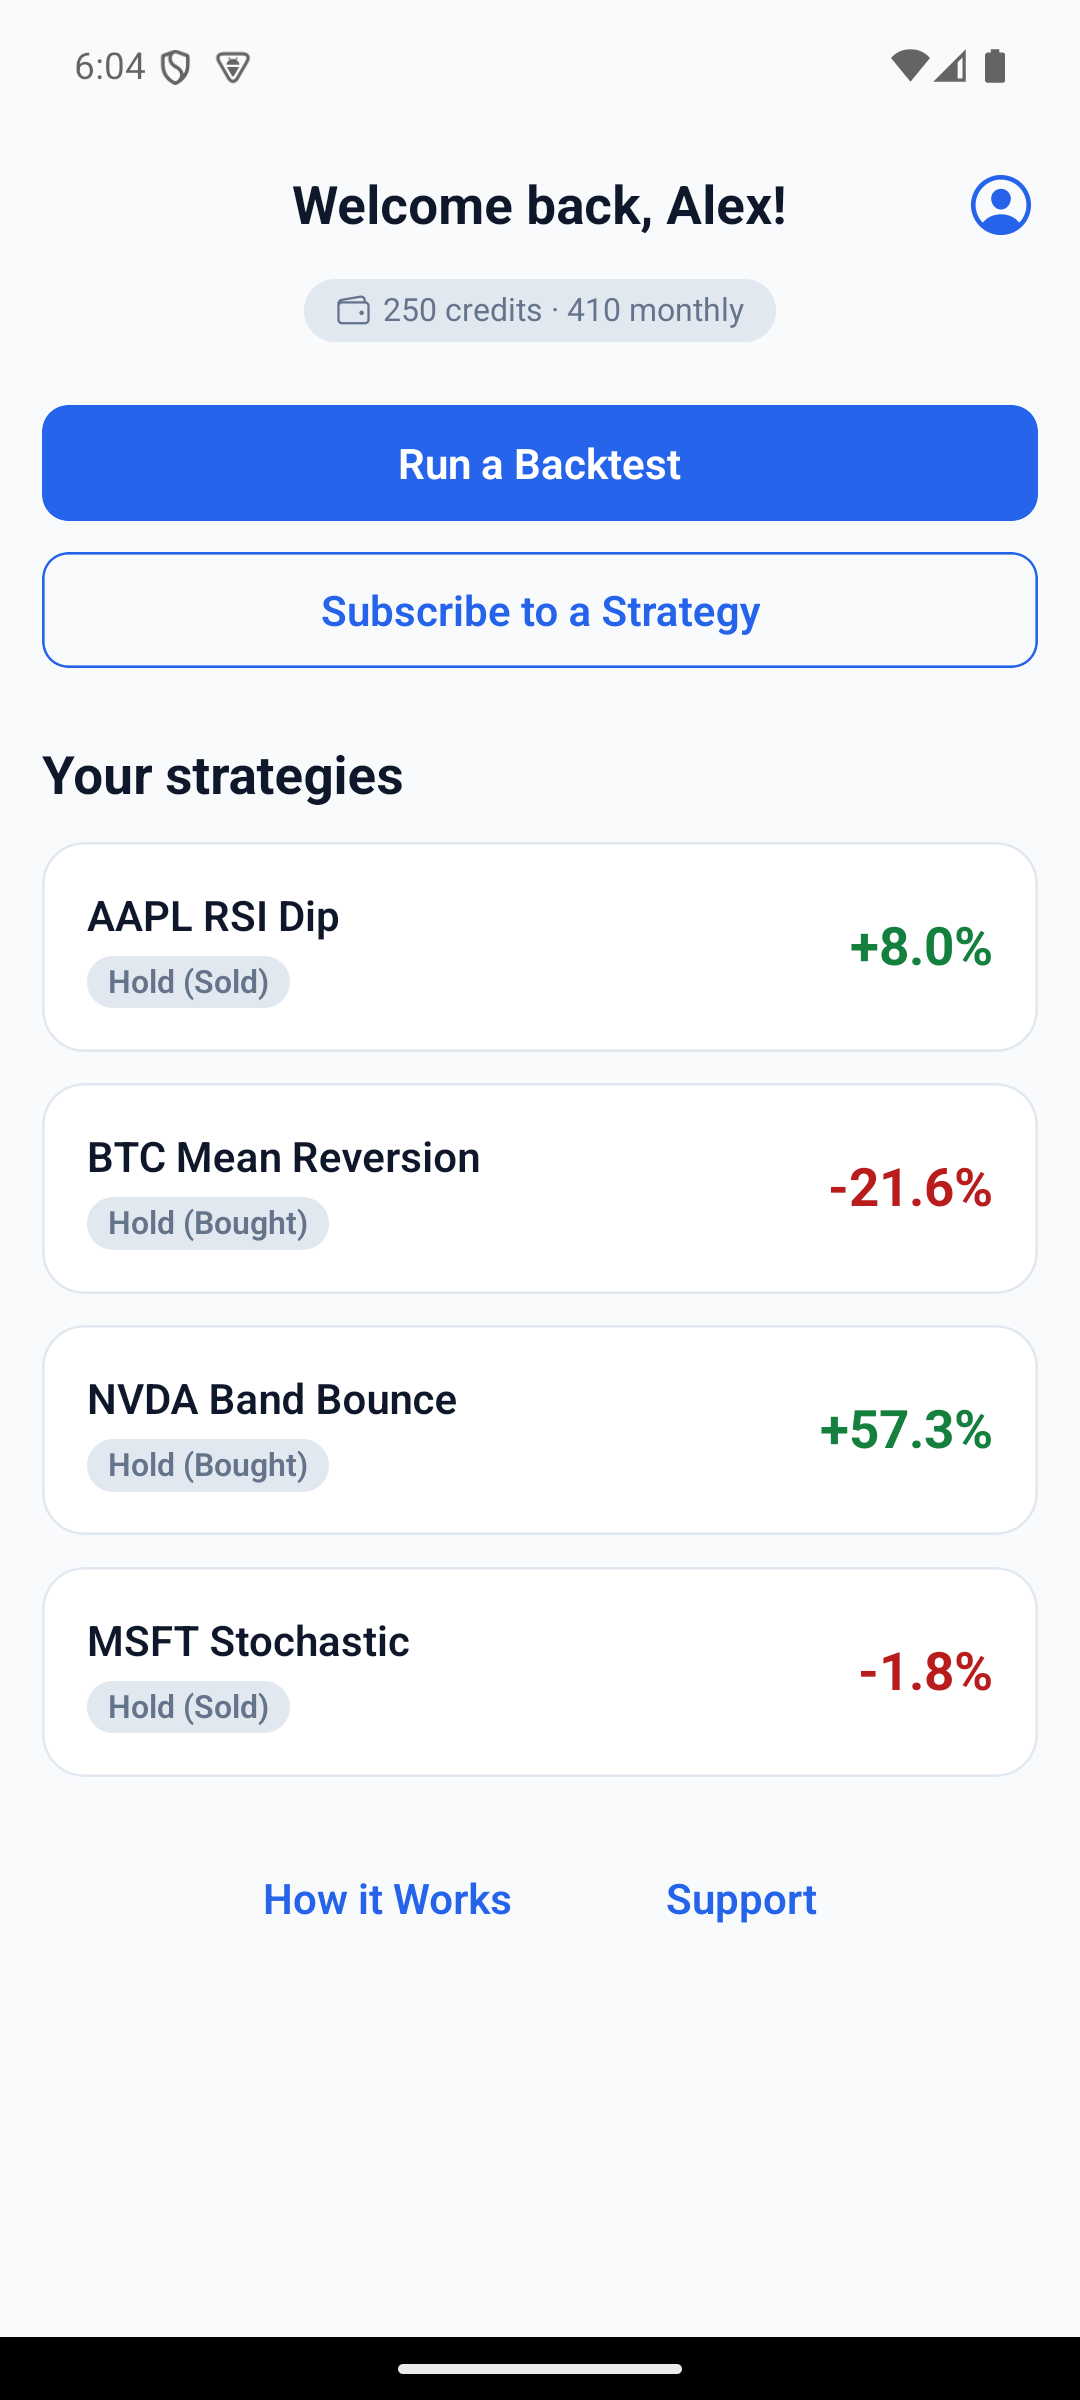
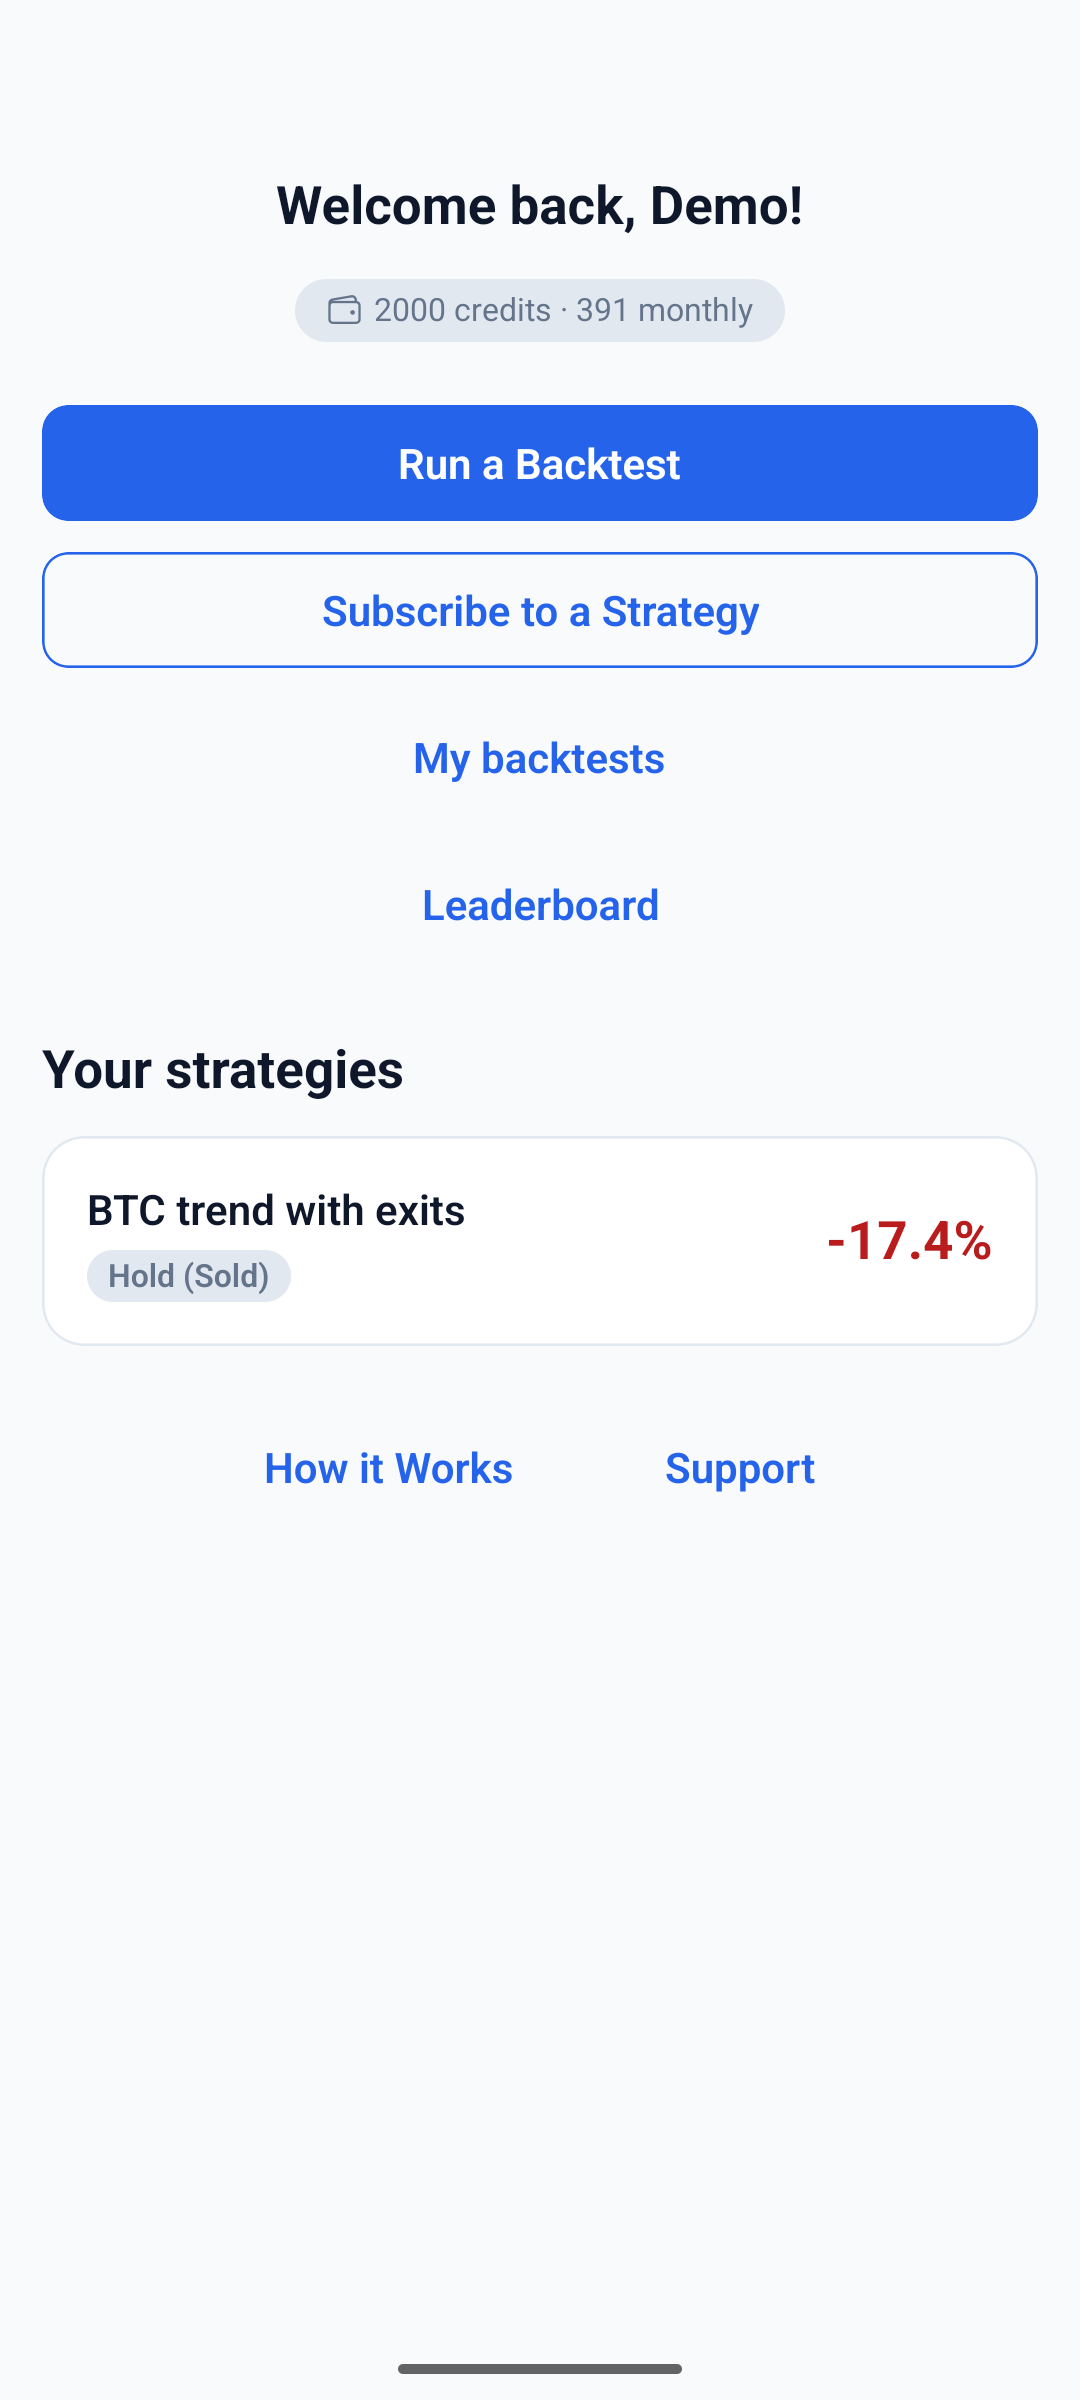
README and screenshots: the strategy curve; retake home and strategy-detail (#65)
Docs and visuals for bsav0016/AlgoTrackerBackend#84. home.png predated the My backtests link; strategy-detail.png had no curve.

diff --git a/README.md b/README.md
@@ -2,11 +2,11 @@
 
 Mobile app for building simple technical-indicator trading strategies, back-testing them on historical price data, and subscribing to a strategy so you get a push notification when it signals a trade. Built with Expo / React Native; the API lives in [AlgoTrackerBackend](https://github.com/bsav0016/AlgoTrackerBackend).
 
-<p><img src="docs/screenshots/home.png" alt="Home screen: credits, backtest and subscribe actions, and a card per subscribed strategy with its position and return" width="19%"> <img src="docs/screenshots/strategy-builder.png" alt="Building a strategy: the Start from an idea row with a Bollinger bounce picked and explained, then the symbol, interval, signals and exit rules" width="19%"> <img src="docs/screenshots/exit-rules.png" alt="Exit rules: a 4 percent stop-loss and a 12 percent take-profit, with the date range and the cost of running the backtest" width="19%"> <img src="docs/screenshots/backtest-results.png" alt="Backtest results: the strategy and the asset as percent return since the start, with a mark for each buy, sell and exit-rule sale, the period covered, and the return, Sharpe and Sortino ratios" width="19%"> <img src="docs/screenshots/strategy-detail.png" alt="A subscribed strategy: strategy return against asset return, next charge date and its trades" width="19%"></p>
+<p><img src="docs/screenshots/home.png" alt="Home screen: credits, the backtest and subscribe actions, links to My backtests and the leaderboard, and a card per subscribed strategy with its position and return" width="19%"> <img src="docs/screenshots/strategy-builder.png" alt="Building a strategy: the Start from an idea row with a Bollinger bounce picked and explained, then the symbol, interval, signals and exit rules" width="19%"> <img src="docs/screenshots/exit-rules.png" alt="Exit rules: a 4 percent stop-loss and a 12 percent take-profit, with the date range and the cost of running the backtest" width="19%"> <img src="docs/screenshots/backtest-results.png" alt="Backtest results: the strategy and the asset as percent return since the start, with a mark for each buy, sell and exit-rule sale, the period covered, and the return, Sharpe and Sortino ratios" width="19%"> <img src="docs/screenshots/strategy-detail.png" alt="A subscribed strategy: its exit rules, then the Strategy curve (the value since the first buy, stepping as trades close, with a mark for each buy, sell and exit-rule sale), then its trades" width="19%"></p>
 
 <p><img src="docs/screenshots/my-backtests.png" alt="My backtests: every saved run with its market, period, gain, count of buys and sells and an exit-rules tag, and a Compare two button" width="24%"> <img src="docs/screenshots/compare-backtests.png" alt="Comparing two saved backtests: both strategy lines and the holding line on one chart, with what is different between the runs listed below" width="24%"> <img src="docs/screenshots/plain-words.png" alt="In plain words: the biggest drop against just holding, how many finished trades won, and the share of time invested, above the ratios table" width="24%"></p>
 
-*The strategy builder, exit rules, backtest results, My backtests, compare and In plain words screenshots are from the app running in Expo Go on an Android emulator against a local copy of the backend, with a demo account and real historical prices (the results and compare shots are BTC/USD for 2025, with and without a 4% stop-loss and 12% take-profit); Expo Go's floating tools button was painted out of the top-right corner, and on the builder and In plain words shots the status bar was blanked too, because the emulator drew it clipped (nothing else was edited). The home and strategy screens are older shots from an Android build, with the same demo account and prices; the home one predates the My backtests link. On those two, the positions, returns and trades are each strategy's one-year backtest result, not live signals. More in [docs/screenshots](docs/screenshots) (for example the [signal builder](docs/screenshots/signal-builder.png)).*
+*The strategy builder, exit rules, backtest results, My backtests, compare and In plain words screenshots are from the app running in Expo Go on an Android emulator against a local copy of the backend, with a demo account and real historical prices (the results and compare shots are BTC/USD for 2025, with and without a 4% stop-loss and 12% take-profit); Expo Go's floating tools button was painted out of the top-right corner, and on the builder, In plain words, home and strategy shots the status bar was blanked too, because the emulator drew it clipped (nothing else was edited). The home and strategy screens show a strategy tracked by the app's live job (RSI with a stop-loss, a trailing stop and a take-profit on BTC/USD): I replayed 160 real daily candles through that job, one at a time, and dated each trade by its candle, so the positions, returns, trades and curve are what the live code produced from real prices, replayed rather than arriving in real time. More in [docs/screenshots](docs/screenshots) (for example the [signal builder](docs/screenshots/signal-builder.png)).*
 
 ## Project status
 
@@ -26,7 +26,7 @@ Trying out a technical-indicator trading idea usually takes code or a desktop ch
 - **Run a backtest** – the backend replays the strategy over historical data; the app draws the result itself (the strategy and the asset as percent return since the start, a mark for each buy, sell and exit-rule sale, and touch to read any day) and shows the return figures. An **In plain words** card sits above the ratios and says the same story without the jargon: the biggest drop (next to how far just holding fell), how many finished trades made money (a buy and the sell that closes it count as one), and how much of the time the strategy was invested. If exit rules were set, it says how many exits each rule made. The server uses the same code for a backtest and a live strategy, so they agree.
 - **Keep, reopen and compare backtests** – every backtest is saved automatically (your newest 50). **My backtests**, reached from the home screen, lists them with their gain and their count of buys and sells; opening one is free and shows the same results screen. The menu on each row renames or deletes it. **Compare two** picks two runs and draws both strategy lines on one chart (with the asset's own line when they cover the same market and period, or both from day 0 when they do not), lists in words what is different between them, and puts the numbers side by side with the difference.
 - **Tweak and rerun** – a button on any results screen opens the builder with that run's symbol, interval, rules, exit rules and dates filled in. Running it again is a new backtest and costs credits.
-- **Subscribe to a strategy** – the home screen lists your subscriptions with their current position and return, and the backend sends push notifications on signals (via `expo-notifications`).
+- **Subscribe to a strategy** – the home screen lists your subscriptions with their current position and return, and the backend sends push notifications on signals (via `expo-notifications`). Opening a subscription shows its totals, its exit rules, and a **Strategy curve**: the strategy's value since its first buy, as percent return, stepping when a trade closes, with a mark on the curve for each buy, sell and exit-rule sale and touch to read any day (the asset's return is the total above it). It is drawn from the same numbers the share card is drawn from, so the two always agree.
 - **Share a strategy** – the strategy screen has a Share button that makes a public link (`<API address>/s/<id>`, a web page with a preview card) and opens the phone's share sheet, and a Stop sharing button that turns the link off. Opening a link in the app (`algotracker://shared/<id>`) shows the strategy's rules and results with an "Add to my strategies" button, which copies it into your account as a free, inactive draft; open the draft and tap Start tracking to begin. A link opened before sign-in waits until you are signed in. Opening a link straight from a message into the app needs Apple associated domains and Android app links, which are not set up yet; until then the web page's button opens the app only if it is installed.
 - **Leaderboard** – a screen (reached from the home screen) ranks strategies by return over buy-and-hold, on an all-time board and a last-week board with older weeks, for daily-or-longer and intraday strategies separately, with your own place shown even when you are not near the top. It is opt-in: nobody appears until they pick a board name (3 to 20 plain characters, never the real name), and leaving deletes the name and past entries. Other users see only a name, rank and results, never rules. Only live results count, and a strategy needs 14 days live and 3 completed trades to rank.
 - **Credits** – backtests and subscriptions cost credits. Credits are bought with a card (Stripe) or through in-app purchases (RevenueCat). The symbol list, intervals and prices come from the backend.
